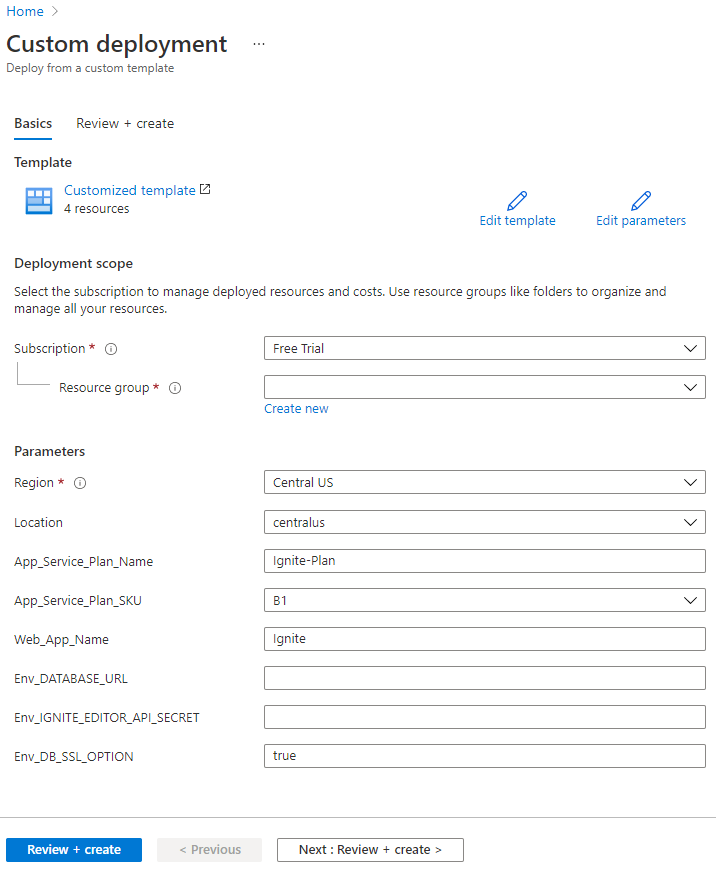
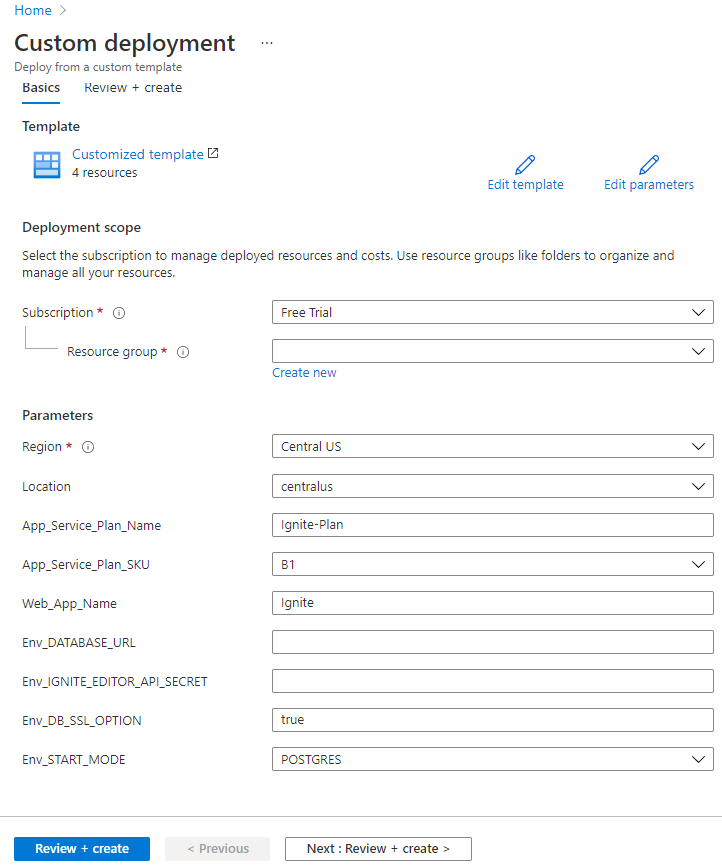
adding modifiyng pages in 'deploy to azure'

diff --git a/website/pages/en/index.js b/website/pages/en/index.js
@@ -7,6 +7,8 @@ class Content extends React.Component {
 				<div style={{width:"20%"}}>
 					<div className="sidebar-topics-heading">Topics</div>
 					<div className="sidebar-topic-container">
+						<a className="sidebar-topic" href="#code-integration-and-code-deployment">CI/CD</a>
+						<a className="sidebar-topic" href="#how-to-deploy-in-azure">Deploy to Azure</a>
 						<a className="sidebar-topic" href="#messages">Messages</a>
 						<a className="sidebar-topic" href="#flow-control">Flow Control</a>
 						<a className="sidebar-topic" href="#error-handling">Error Handling</a>
@@ -23,8 +25,6 @@ class Content extends React.Component {
 						<a className="sidebar-topic" href="#designer">Designer</a>
 						<a className="sidebar-topic" href="#monitor">Monitor</a>
 						<a className="sidebar-topic" href="#release-management">Release Management</a>
-						<a className="sidebar-topic" href="#code-integration-and-code-deployment">CI/CD</a>
-						<a className="sidebar-topic" href="#how-to-deploy-in-azure">Deploy to Azure</a>
 					</div>
 				</div>
 				<div style={{width:"80%"}}>
@@ -35,6 +35,17 @@ class Content extends React.Component {
 							<p>This is a collection of recipes for how to use Ignite to solve many common programming tasks.</p>
 							<p>Each recipe addresses a specific problem and shows by example how it can be solved using the capabilities of the platform.</p>
 							<h2 id="table-of-contents">Table of Contents</h2>
+						</div>
+						<div className="category-container">
+							<h3 id="code-integration-and-code-deployment" className="category-title">CI/CD</h3>
+							<a className="category-element" href="docs/code-integration-and-code-deployment/ci-cd-introduction">Introduction</a>
+							<a className="category-element" href="docs/code-integration-and-code-deployment/ci-cd-installation">Installation</a>
+						</div>
+						<div className="category-container">
+							<h3 id="how-to-deploy-in-azure" className="category-title">Deploy to Azure</h3>
+							<a className="category-element" href="docs/deploy-to-azure/getting-started">Getting Started</a>
+							<a className="category-element" href="docs/deploy-to-azure/how-to-deploy-in-azure">How to Deploy</a>
+							<a className="category-element" href="docs/deploy-to-azure/manage-application">Manage Application</a>
 						</div>
 						<div className="category-container">
 							<h3 id="messages" className="category-title">Messages</h3>
@@ -151,16 +162,6 @@ class Content extends React.Component {
 						<div className="category-container">
 							<h3 id="release-management" className="category-title">Release Management</h3>
 							<a className="category-element" href="docs/release-management/upload-download-release-management">Upload Download Release Packages</a>
-						</div>
-						<div className="category-container">
-							<h3 id="code-integration-and-code-deployment" className="category-title">CI/CD</h3>
-							<a className="category-element" href="docs/code-integration-and-code-deployment/ci-cd-introduction">Introduction</a>
-							<a className="category-element" href="docs/code-integration-and-code-deployment/ci-cd-installation">Installation</a>
-						</div>
-						<div className="category-container">
-							<h3 id="how-to-deploy-in-azure" className="category-title">Deploy to Azure</h3>
-							<a className="category-element" href="docs/deploy-to-azure/how-to-deploy-in-azure">How to Deploy</a>
-							<a className="category-element" href="docs/deploy-to-azure/manage-application">Manage Application</a>
 						</div>
 					</div>
 				</div>

diff --git a/docs/deploy-to-azure/getting-started.md b/docs/deploy-to-azure/getting-started.md
@@ -1,20 +1,20 @@
 ---
-id: how-to-deploy-in-azure
-title: How to Deploy in Azure
-sidebar_label: How To Deploy
+id: getting-started
+title: Getting Started
+sidebar_label: Getting Started
 ---
 
-## Deploy application using docker hub public repository
+## Deploy using private repository (local development)
 
-After the Ignite Platform team provisions your account, you may use the following **"Deploy to Azure"** button to get started.
+After the Ignite Platform team provisions your account, you may use the following **"Deploy to Azure"** button to get started your deployment using local development with private repository.
 
-<a href="https://portal.azure.com/#create/Microsoft.Template/uri/https%3A%2F%2Fraw.githubusercontent.com%2FCybergroup-Research%2Fignite-runtime-image%2Fmaster%2Fazure-deployment.json" target="_blank">![](../assets/deployToAzure/deploy-to-azure.png)</a>
+<a href="https://portal.azure.com/#create/Microsoft.Template/uri/https%3A%2F%2Fraw.githubusercontent.com%2FCybergroup-Research%2Fignite-runtime-image%2Fmaster%2Fazure-app-service-docker-private-image.json" target="_blank">![](../assets/deployToAzure/deploy-to-azure.png)</a>
 
-> *You may need a Microsoft Azure account.*
+> *You may need a Microsoft Azure account, docker account with azure container registry*
 
 > *You will be redirected to Azure after clicking this button.*
 
-![](../assets/deployToAzure/custom-deployment.png)
+![](../assets/deployToAzure/custom-deployment-private-repo.png)
 
 Below are required parameters details-
 
@@ -41,6 +41,14 @@ All resources in an Azure subscription are billed together.
 - **ENV_DB_SSL_OPTION:** If your database supports or requires SSL, it is recommended to turn this on
 
 - **ENV_START_MODE:** Select desired start mode (Required for git based application development)
+
+- **Env_DOCKER_REGISTRY_SERVER_URL** Provide docker registry server URL
+
+- **Env_DOCKER_CUSTOM_IMAGE_NAME** Provide docker image name URL
+
+- **Env_DOCKER_REGISTRY_SERVER_USERNAME** Provide docker registry server username
+
+- **Env_DOCKER_REGISTRY_SERVER_PASSWORD** Provide docker registry server password
 
 ### Observation 1: 
 If someone else is using the same web app name then during deployment, you will get error like below-
